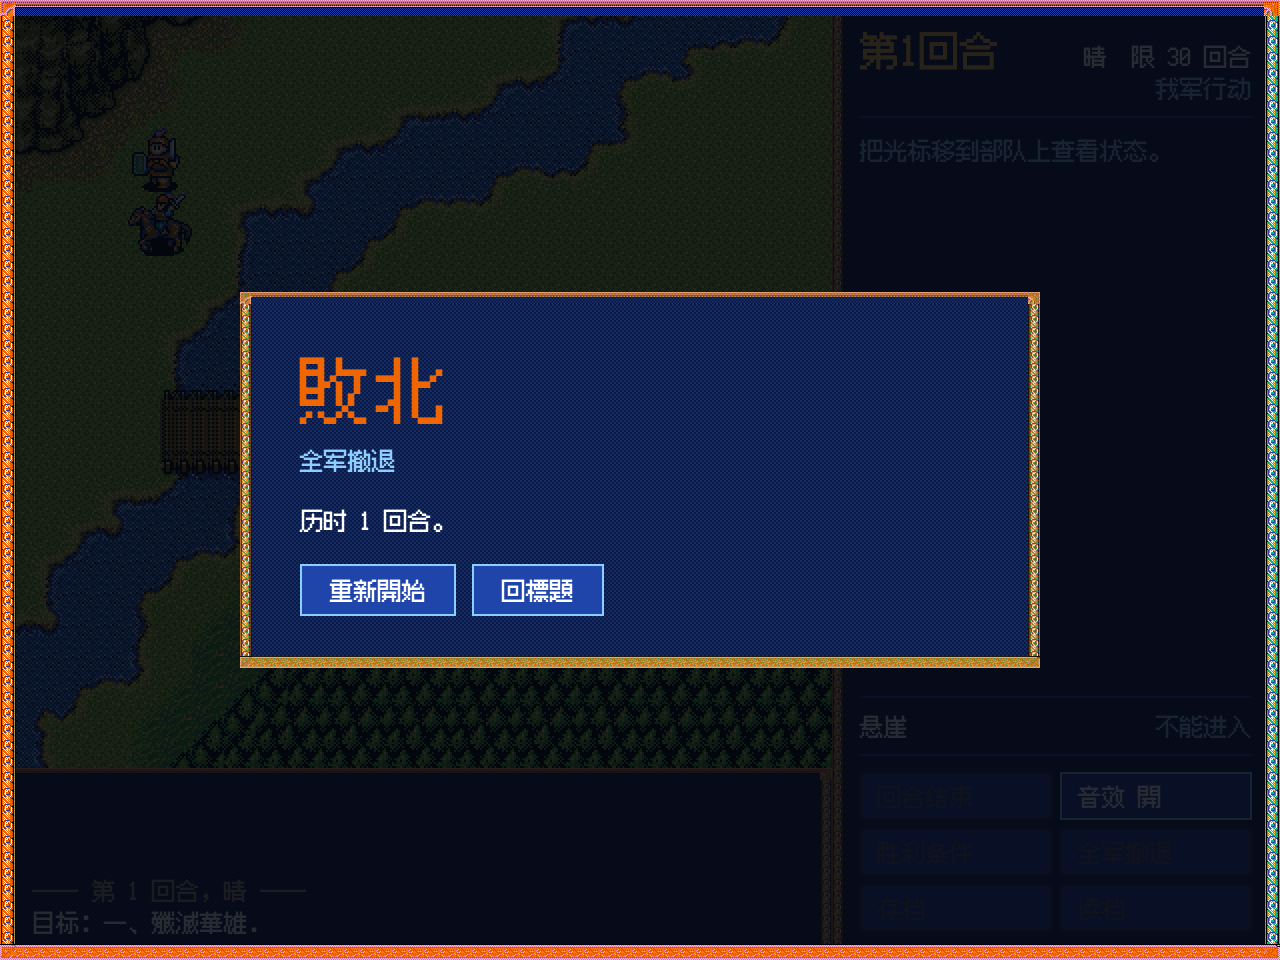
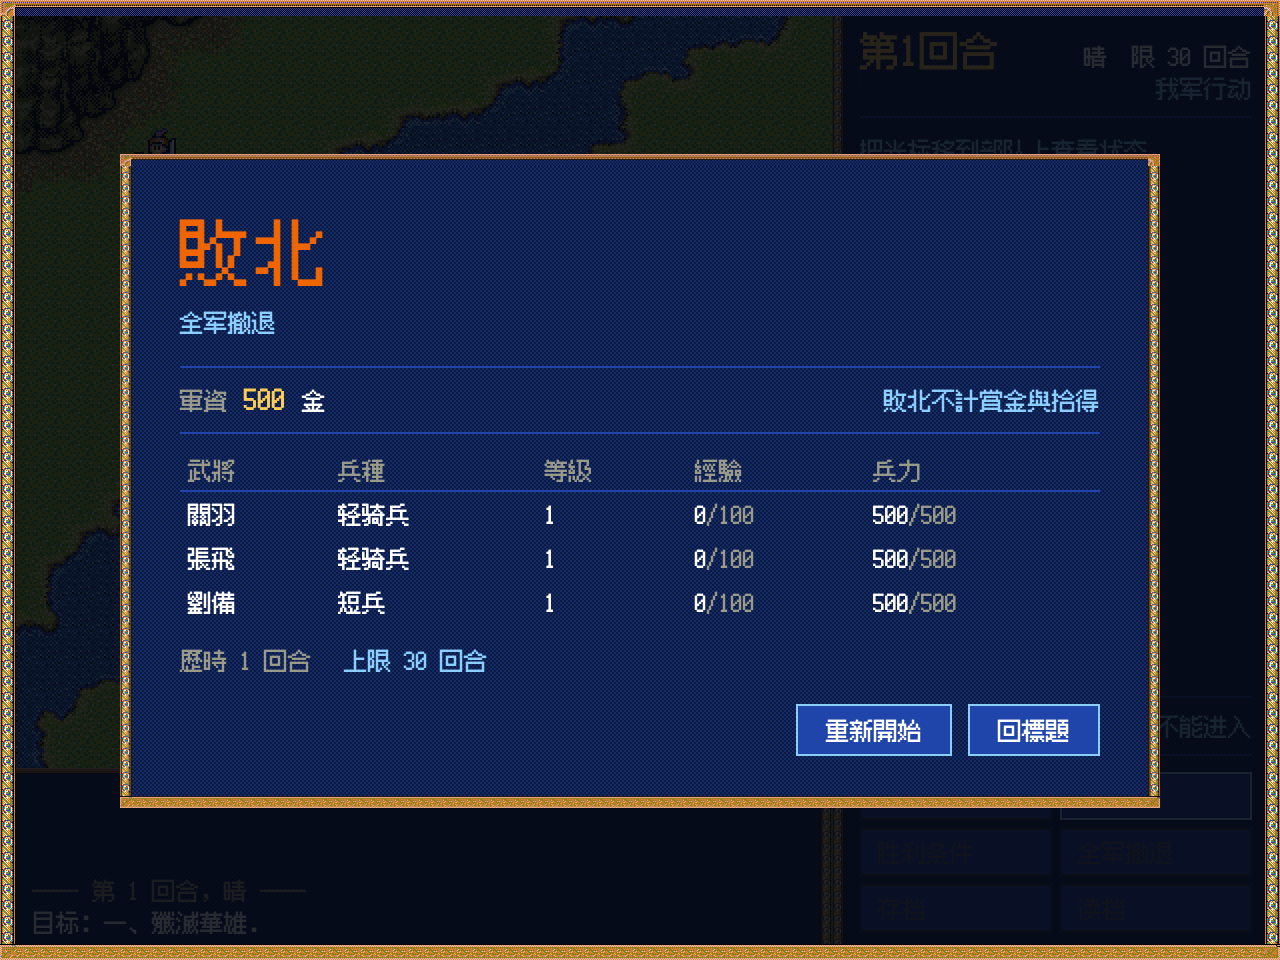
feat: 战后结算成绩单（军资拆分 / 经验 / 升级），开局军资对齐原版
原来的「勝利」弹窗只有一行「历时 N 回合，所得军资 X 金」，打完了也看不出
谁升了级、钱是赏金还是捡的。现在按原版「戰鬥結果」报的三样重做：

- 新增 src/result.ts（纯函数，可单测）：军资拆成「关卡赏金 + 战场拾得」，
  败北两者都不入账（与 afterBattle 的入账口径完全一致）；我军每支部队给
  兵种 / 等级 / 经验 / 兵力，撤退的标灰，本战升过级的标 Lv+n；
  还没登场的增援不算撤退，不会混进表里；回合数截到关卡上限
- 「开战前的等级」直接取 story.roster——成长只在战后写回，所以战斗进行中
  读到的就是开战时的等级，读档接手的战斗也算得对（不另存快照）
- 结算版面：胜利金色 / 败北橙色，军资一行 + 成绩表 + 回合与军资余额
- 开局军资 100 → 0：原版序章曹操当面拨 500 金（剧本的 @gold 500，台词就是
  「喂，叫道具屋老闆來」），那笔钱正好在第一次进道具屋之前到账。原来多给的
  100 是自己加的，删掉后第一次营地是 500 金，买完豆 400
- 营地重画时留住滚动位置，焦点用 preventScroll——以前每点一下都被「出陣」
  按钮拽到卡片底部，营地标题与军资那一行看不见

测试：tests/result.test.ts 7 项（军资拆分、败北不入账、撤退与升级标记、
回合截断、70 关都能算）；vitest 132→139；e2e 补结算断言并重拍 20/22 截图；
prod-smoke 的营地军资断言跟着改成 500/400。

diff --git a/src/main.ts b/src/main.ts
@@ -8,6 +8,7 @@ import { PROMOTE, classUse, isEquipment, itemEffect, priceOf, specOf } from './d
 import { chapterTitle, marchMap } from './data/march';
 import { strategyName, strategySpec } from './data/strategies';
 import { DUEL_BGM, TITLE_BGM, battleBgm, isFighting, resultBgm } from './music';
+import { tally } from './result';
 import { TB, atk, attackTargets, bySlot, def, itemName, knownStrategies, maxHp, maxMp, moveBudget, terrainAt, terrainDef, unitAt, weatherName } from './rules/core';
 import { canStop, reachField } from './rules/move';
 import { aiStep, autoPhase, canCommand, castTargets, doAttack, doCast, doCastAll, doDrop, doGive, doItem, doItemAll, doMove, doWait, endPhase, giveTargets, harvest, itemTargets, levelById, levelOf, newBattle, registerLevel, undoMove } from './rules/turn';
@@ -624,6 +625,8 @@ function camp(step: Extract<Shown, { t: 'camp' }>) {
   const shop = step.shop.map((id) => `<div class="buy"><span>${esc(itemName(id))}<em>${esc(itemEffect(id))}</em></span>` +
     `<button class="btn" data-buy="${id}"${story.gold < (priceOf(id) ?? 100) ? ' disabled' : ''}>${priceOf(id) ?? 100} 金</button></div>`).join('');
   const render = () => {
+    // 重画时留住滚动位置：营地比一屏高，买完东西跳回顶部会让人找不着刚才那一行
+    const top = el.scrollTop;
     el.className = '';
     el.innerHTML = `<div class="card camp"><h1 style="font-size:24px;line-height:30px">${esc(step.title)}</h1>` +
       `<p class="sub">軍資 ${story.gold} 金　出征 ${story.deploy.length}/${max} 名</p>` +
@@ -633,7 +636,9 @@ function camp(step: Extract<Shown, { t: 'camp' }>) {
       `<div class="row end"><button class="btn" data-go="camp-save">存檔</button>` +
       `<button class="btn" data-go="camp-go"${story.deploy.length ? '' : ' disabled'}>出陣</button></div>`;
     el.hidden = false;
-    (el.querySelector('[data-go="camp-go"]') as HTMLElement | null)?.focus();
+    el.scrollTop = top;
+    // 焦点给出陣，但不让它把卡片滚到底
+    (el.querySelector('[data-go="camp-go"]') as HTMLElement | null)?.focus({ preventScroll: true });
   };
   render();
   return new Promise<void>((done) => {
@@ -933,11 +938,11 @@ function load() {
 }
 
 // ---------------------------------------------------------------- 整屏 ----
-function screen(html: string, veil = false) {
+function screen(html: string, veil = false, cls = '') {
   const el = $('screen');
   el.className = veil ? 'veil' : 'scroll';
   el.style.backgroundImage = '';
-  el.innerHTML = `<div class="card">${html}</div>`;
+  el.innerHTML = `<div class="card${cls ? ` ${cls}` : ''}">${html}</div>`;
   el.hidden = false;
   (el.querySelector('button') as HTMLElement | null)?.focus();
 }
@@ -947,7 +952,8 @@ $('screen').addEventListener('click', (e) => {
   if (!btn) playSfx('cursor', 0.55); // 章节横幅：点一下继续
   if (go === 'start') {
     story = startStory(CAMPAIGN, { party: [...START_PARTY] });
-    story.gold = 100;
+    // 开局一分钱没有：原版序章里曹操当场拨 500 金（剧本的 @gold 500），
+    // 那笔钱正好赶在第一次进道具屋之前，所以这里不再另给。
     void playStory(nextStep(CAMPAIGN, story, 0, API));
   }
   if (go === 'new') ($('screen').hidden = true), begin(null);
@@ -1055,18 +1061,44 @@ function showDeploy(levelId: string) {
     render();
   };
 }
+/**
+ * 开战前各武将的等级：成长只在战后（`afterBattle`）写回 `story.roster`，
+ * 所以战斗进行中读到的 roster 就是开战时的等级——读档接手的战斗也算得对。
+ */
+const levelBeforeBattle = () => Object.fromEntries(
+  Object.entries(officers).map(([id, o]) => [id, story.roster[id]?.level ?? o.level]),
+);
+
+/**
+ * 战斗结果：原版的「戰鬥結果」只报三样——军资、各部队的经验与升级、打了多少回合。
+ * 数值全部从战场状态与关卡数据算（`src/result.ts`），版面是网页版自己的深蓝面板。
+ */
 function showResult() {
   mode = 'over';
   renderTurn();
-  const won = b.stage === 'won';
-  const music = resultBgm(won);
+  const lv = levelOf(b);
+  const t = tally(b, { reward: lv.reward, turnLimit: lv.turnLimit, before: levelBeforeBattle() });
+  const music = resultBgm(t.won);
   if (music) playBgm(music, true); // 败北曲立刻压上；胜利保持战斗曲，剧本接手
   const step = currentStep(CAMPAIGN, story) as Extract<Shown, { t: 'battle' }> | null;
+  const rows = t.rows.map((r) =>
+    `<tr${r.on ? '' : ' class="off"'}><td>${esc(r.name)}${r.up ? `<i class="up">Lv+${r.up}</i>` : ''}</td>` +
+    `<td>${esc(r.className)}</td><td>${r.level}</td><td>${r.exp}<span>/100</span></td>` +
+    `<td>${r.on ? `${r.hp}<span>/${r.maxHp}</span>` : '撤退'}</td></tr>`).join('');
+  const money = t.won
+    ? `<div class="tally"><span>所得軍資</span><b>${t.gold}</b>金` +
+      `<em>賞金 ${t.reward} ＋ 拾得 ${t.found}</em></div>`
+    : `<div class="tally"><span>軍資</span><b>${story.gold}</b>金<em>敗北不計賞金與拾得</em></div>`;
+  const tail = t.won
+    ? `歷時 ${t.rounds} 回合<em>軍資 ${story.gold} → ${story.gold + t.gold}</em>`
+    : `歷時 ${t.rounds} 回合<em>上限 ${lv.turnLimit} 回合</em>`;
   screen(
-    `<h1 class="${won ? '' : 'lost'}">${won ? '勝利' : '敗北'}</h1><p class="sub">${esc(b.reason)}</p>` +
-    `<p>历时 ${Math.min(b.round, levelOf(b).turnLimit)} 回合${won ? `，所得军资 ${b.gold} 金` : ''}。</p>` +
-    `<div class="row"><button class="btn" data-go="next">${won || step?.lose !== undefined ? '續' : '重新開始'}</button>` +
-    (won ? '' : '<button class="btn" data-go="title">回標題</button>') + '</div>', true);
+    `<h1 class="${t.won ? '' : 'lost'}">${t.won ? '勝利' : '敗北'}</h1><p class="sub">${esc(b.reason)}</p>` +
+    money +
+    `<table class="squad"><tr><th>武將</th><th>兵種</th><th>等級</th><th>經驗</th><th>兵力</th></tr>${rows}</table>` +
+    `<p class="rounds">${tail}</p>` +
+    `<div class="row"><button class="btn" data-go="next">${t.won || step?.lose !== undefined ? '續' : '重新開始'}</button>` +
+    (t.won ? '' : '<button class="btn" data-go="title">回標題</button>') + '</div>', true, 'result');
 }
 function showEnding(text: string) {
   mode = 'over';

diff --git a/tests/result.test.ts b/tests/result.test.ts
@@ -1,0 +1,97 @@
+import { describe, expect, it } from 'vitest';
+import { SCRIPT, defaultDeploy, level, officers } from '../src/data/game';
+import { tally } from '../src/result';
+import { newBattle } from '../src/rules/turn';
+import type { Roster } from '../src/rules/types';
+
+/**
+ * 战斗结算：军资怎么拆、谁上榜、升了几级、回合数怎么截。
+ * 这里只管算，不管画面；画面在 `src/main.ts` 的 `showResult()`。
+ */
+
+const roster = (): Roster => {
+  const r: Roster = {};
+  for (const [id, o] of Object.entries(officers)) r[id] = { level: o.level, exp: 0, items: [] };
+  return r;
+};
+
+describe('战斗结算', () => {
+  it('胜利：军资 = 关卡赏金 + 战场拾得，两笔分开报', () => {
+    const lv = level('c1_s0_b11')!; // 原版赏金 200
+    const { b } = newBattle(lv, 1, roster(), { deploy: ['liu_bei', 'guan_yu'] });
+    b.stage = 'won';
+    b.gold = 500; // 赏金 200 在判胜时已加进来，另外 300 是宝箱与事件给的
+    const t = tally(b, { reward: lv.reward, turnLimit: lv.turnLimit });
+    expect([t.gold, t.reward, t.found]).toEqual([500, 200, 300]);
+    expect(t.won).toBe(true);
+  });
+
+  it('败北：赏金与拾得都不入账，军资一分不加', () => {
+    const lv = level('c1_s0_b11')!;
+    const { b } = newBattle(lv, 1, roster(), { deploy: ['liu_bei'] });
+    b.stage = 'lost';
+    b.gold = 300; // 路上捡的，败了不算
+    const t = tally(b, { reward: lv.reward, turnLimit: lv.turnLimit });
+    expect([t.gold, t.reward, t.found]).toEqual([0, 0, 0]);
+    expect(t.won).toBe(false);
+  });
+
+  it('只有我军上榜：撤退的也列出来，兵力记 0', () => {
+    const lv = level('c1_s0_b11')!;
+    const { b } = newBattle(lv, 1, roster(), { deploy: ['liu_bei', 'guan_yu'] });
+    b.stage = 'won';
+    const guan = b.units.find((u) => u.key === 'guan_yu')!;
+    guan.on = false;
+    const t = tally(b, { reward: lv.reward, turnLimit: lv.turnLimit });
+    expect(t.rows.map((r) => r.name)).toEqual(['劉備', '關羽']);
+    expect(t.rows.map((r) => r.on)).toEqual([true, false]);
+    expect(t.rows[1].hp).toBe(0);
+    expect(t.rows[0].hp).toBeGreaterThan(0);
+  });
+
+  it('升级：和开战时的等级比，涨几级就标几级', () => {
+    const lv = level('c1_s0_b11')!;
+    const { b } = newBattle(lv, 1, roster(), { deploy: ['liu_bei', 'guan_yu'] });
+    b.stage = 'won';
+    const guan = b.units.find((u) => u.key === 'guan_yu')!;
+    guan.level += 2;
+    const t = tally(b, { reward: lv.reward, turnLimit: lv.turnLimit, before: { guan_yu: guan.level - 2, liu_bei: 1 } });
+    expect(t.rows.find((r) => r.key === 'guan_yu')!.up).toBe(2);
+    expect(t.rows.find((r) => r.key === 'liu_bei')!.up).toBe(0);
+  });
+
+  it('没有开战记录（读档接手的战斗）时，不标升级', () => {
+    const lv = level('c1_s0_b11')!;
+    const { b } = newBattle(lv, 1, roster(), { deploy: ['guan_yu'] });
+    const t = tally(b, { reward: lv.reward, turnLimit: lv.turnLimit });
+    expect(t.rows.map((r) => r.up)).toEqual([0]);
+  });
+
+  it('回合数不超过关卡上限（打到加时也按上限报）', () => {
+    const lv = level('c0_s0_b5')!;
+    const { b } = newBattle(lv, 1, roster(), { deploy: ['guan_yu'] });
+    b.round = lv.turnLimit + 5;
+    expect(tally(b, { reward: lv.reward, turnLimit: lv.turnLimit }).rounds).toBe(lv.turnLimit);
+    b.round = 3;
+    expect(tally(b, { reward: lv.reward, turnLimit: lv.turnLimit }).rounds).toBe(3);
+  });
+
+  it('70 场战斗都能算：上榜人数等于出征人数，兵种名与等级对得上', () => {
+    const ids = SCRIPT.steps.filter((s) => s.t === 'battle').map((s) => (s as { level: string }).level);
+    const r = roster();
+    for (const [n, id] of ids.entries()) {
+      const lv = level(id)!;
+      const deploy = defaultDeploy(id, Object.keys(r).filter((k) => lv.candidates?.[k]));
+      const { b } = newBattle(lv, n + 1, r, { deploy });
+      b.stage = 'won';
+      const t = tally(b, { reward: lv.reward, turnLimit: lv.turnLimit });
+      expect(t.rows.length, `${id} 上榜人数`).toBe(deploy.length);
+      for (const row of t.rows) {
+        expect(row.className.length, `${id} ${row.name} 兵种`).toBeGreaterThan(0);
+        expect(row.level, `${id} ${row.name} 等级`).toBeGreaterThan(0);
+        expect(row.maxHp, `${id} ${row.name} 兵力上限`).toBeGreaterThan(0);
+      }
+      expect(t.reward, `${id} 赏金`).toBe(lv.reward);
+    }
+  });
+});

diff --git a/src/result.ts b/src/result.ts
@@ -1,0 +1,67 @@
+import { TB, friendly, maxHp } from './rules/core';
+import type { Battle } from './rules/types';
+
+/**
+ * 战斗结算：把打完的战场折成一张成绩单。
+ *
+ * 原版的「戰鬥結果」只报三件事——军资、各部队的经验与升级、以及这一战打了多少回合。
+ * 这里照这三样算，不自行加奖励；军资的账要和 `afterBattle()` 完全对得上：
+ * 胜利才把 `b.gold` 加进军资，其中关卡赏金来自关卡数据（`reward`），其余是战场拾得
+ * （宝箱、事件里给的金）。败北两者都不入账。
+ */
+export interface ResultRow {
+  /** 武将 id；杂兵退回名字，只用来定位 */
+  key: string;
+  name: string;
+  cls: number;
+  className: string;
+  level: number;
+  /** 0–99，满 100 升级（原版存档就是这么记的） */
+  exp: number;
+  hp: number;
+  maxHp: number;
+  /** false = 这一战撤退了 */
+  on: boolean;
+  /** 相比开战涨了几级；没有开战记录时为 0 */
+  up: number;
+}
+
+export interface ResultTally {
+  won: boolean;
+  /** 这一战加进军资的总额 */
+  gold: number;
+  /** 其中来自关卡赏金的部分 */
+  reward: number;
+  /** 其中来自战场拾得（宝箱、事件给的金）的部分 */
+  found: number;
+  rows: ResultRow[];
+  rounds: number;
+}
+
+export interface TallyOpts {
+  /** 关卡数据里的赏金 */
+  reward: number;
+  /** 关卡回合上限，结算显示不超过它 */
+  turnLimit: number;
+  /** 开战时各武将的等级，用来标「升了几级」；读档接手的战斗没有这份记录 */
+  before?: Record<string, number>;
+}
+
+export function tally(b: Battle, o: TallyOpts): ResultTally {
+  const won = b.stage === 'won';
+  const gold = won ? b.gold : 0;
+  const reward = won ? o.reward : 0;
+  const rows = b.units
+    .filter((u) => u.mode === 7 && friendly(u.slot))
+    // 还没登场的增援不算「撤退」：它们本来就没进场
+    .filter((u) => !u.group || !!b.vars[`__spawned_${u.group}`])
+    .map((u) => {
+      const key = u.key ?? u.name;
+      return {
+        key, name: u.name, cls: u.cls, className: TB.classNames[u.cls] ?? '',
+        level: u.level, exp: u.exp, hp: u.on ? u.hp : 0, maxHp: maxHp(u.cls, u.level),
+        on: u.on, up: Math.max(0, u.level - (o.before?.[key] ?? u.level)),
+      };
+    });
+  return { won, gold, reward, found: Math.max(0, gold - reward), rows, rounds: Math.min(b.round, o.turnLimit) };
+}

diff --git a/src/style.css b/src/style.css
@@ -221,4 +221,20 @@ img { image-rendering: pixelated; }
 .card .seal { float: right; width: 44px; height: 44px; margin: 4px 0 0 12px; background: var(--orange); color: var(--white);
   border: 1px solid var(--gold); display: grid; place-items: center; font-size: 11px; line-height: 14px; text-align: center; }
 
+/* 战斗结果：军资一行 + 我军成绩表（经验 / 等级 / 兵力） */
+.card.result { width: 520px; }
+.result .tally { display: flex; gap: 8px; align-items: baseline; padding: 7px 0; border-top: 1px solid var(--blue); border-bottom: 1px solid var(--blue); }
+.result .tally span { color: var(--dim); }
+.result .tally b { font-weight: normal; font-size: 14px; line-height: 18px; color: var(--gold); }
+.result .tally em { font-style: normal; color: var(--blue-hi); margin-left: auto; }
+.result table.squad { width: 100%; border-collapse: collapse; margin: 8px 0 0; }
+.result table.squad th { padding: 2px 4px; text-align: left; font-weight: normal; color: var(--dim); border-bottom: 1px solid var(--blue); }
+.result table.squad td { padding: 3px 4px; }
+.result table.squad td span { color: var(--dim); }
+.result table.squad tr.off td { color: #6a6a7a; }
+.result table.squad .up { margin-left: 5px; font-style: normal; color: var(--gold); }
+.result .rounds { margin: 10px 0 0; color: var(--dim); }
+.result .rounds em { font-style: normal; color: var(--blue-hi); margin-left: 16px; }
+.result .row { justify-content: flex-end; }
+
 @media (prefers-reduced-motion: reduce) { * { transition: none !important; animation: none !important; } }

diff --git a/README.md b/README.md
@@ -3,7 +3,8 @@
 《三國志英傑傳》（KOEI，1995，PC DOS 繁體中文版）的网页版复刻，非官方。
 **整部游戏**：从序章「群雄起兵討伐董卓」开始的全部剧情、70 场战斗、营地编成与商店、部队配置（布阵）、
 装备与转职、全 37 条策略（含回复、士气、混乱与策略书）、单挑演出、棋子逐帧行走、
-原版 BGM（按剧情、战斗阶段与单挑换曲）与 21 个动作音效，一直到结局。纯前端，本地存档，无后端。
+原版 BGM（按剧情、战斗阶段与单挑换曲）与 21 个动作音效、胜败结算（军资、经验与升级），
+一直到结局。纯前端，本地存档，无后端。
 音效是 CC0 替代素材，**不是原版 DOS 的效果音**（原版走 `SBOPL2.COM` 的 OPL 合成，尚无可用的提取器）。
 
 内容全部是数据，格式见 [docs/framework.md](docs/framework.md)：5491 步流程、610 幕插剧、
@@ -65,6 +66,7 @@ src/data/      原版数据：game.json（整部剧本 + 70 关 + 武将）、it
 src/audio.ts   音效播放：预加载、节流、音量、静音开关（localStorage）
 src/sfx-map.ts 规则事件 → 音效键的纯函数映射（可单测）
 src/music.ts   音乐导演：按阶段 / 场合选曲（战斗、敌军阶段、单挑、败北…）的纯函数（可单测）
+src/result.ts  战斗结算：军资拆分、经验与升级、回合数的纯函数（可单测）
 src/story.ts   流程脚本解释器：对话、选择、标志、战斗的先后，纯 TypeScript
 src/facing.ts  棋子朝向：面向敌方
 src/scene.ts   Phaser 场景：画地图和棋子、播放规则层给出的事件、战斗特写帧动画

diff --git a/docs/rules.md b/docs/rules.md
@@ -119,10 +119,10 @@
 
 | 检查 | 结果 |
 |---|---|
-| `npx vitest run`（规则 35 + 剧情 9 + 整部剧本 15 + 汜水关 17 + 道具 14 + 策略 19 + 音效 6） | 115 项通过 |
+| `npx vitest run`（规则 35 + 剧情 9 + 整部剧本 19 + 汜水关 17 + 道具 17 + 策略 22 + 音效 6 + 音乐 7 + 结算 7） | 139 项通过 |
 | `npm run typecheck` | 通过 |
 | `npm run build` | 通过（打包后 2.9 MB，有体积提示） |
-| `node tests/e2e.mjs`（开发服务器，真实鼠标键盘操作） | 16 项通过：标题曲与战斗曲、敌军阶段换曲、单挑「强敌」曲、败北曲、增援横幅，含后期关卡跳关实测，截图在 `docs/screenshots/` |
+| `node tests/e2e.mjs`（开发服务器，真实鼠标键盘操作） | 16 项通过：标题曲与战斗曲、敌军阶段换曲、单挑「强敌」曲、败北曲、增援横幅、胜败结算（军资拆分与 `Lv+1`），含后期关卡跳关实测，截图在 `docs/screenshots/` |
 | `node tests/prod-smoke.mjs`（生产构建） | 通过，控制台无报错 |
 
 浏览器实操里的结局都是**正常游玩**：走到华雄旁边触发单挑、華雄撤退、按胜利条件判胜；全军撤退判负后重新开始回到第 1 回合。
